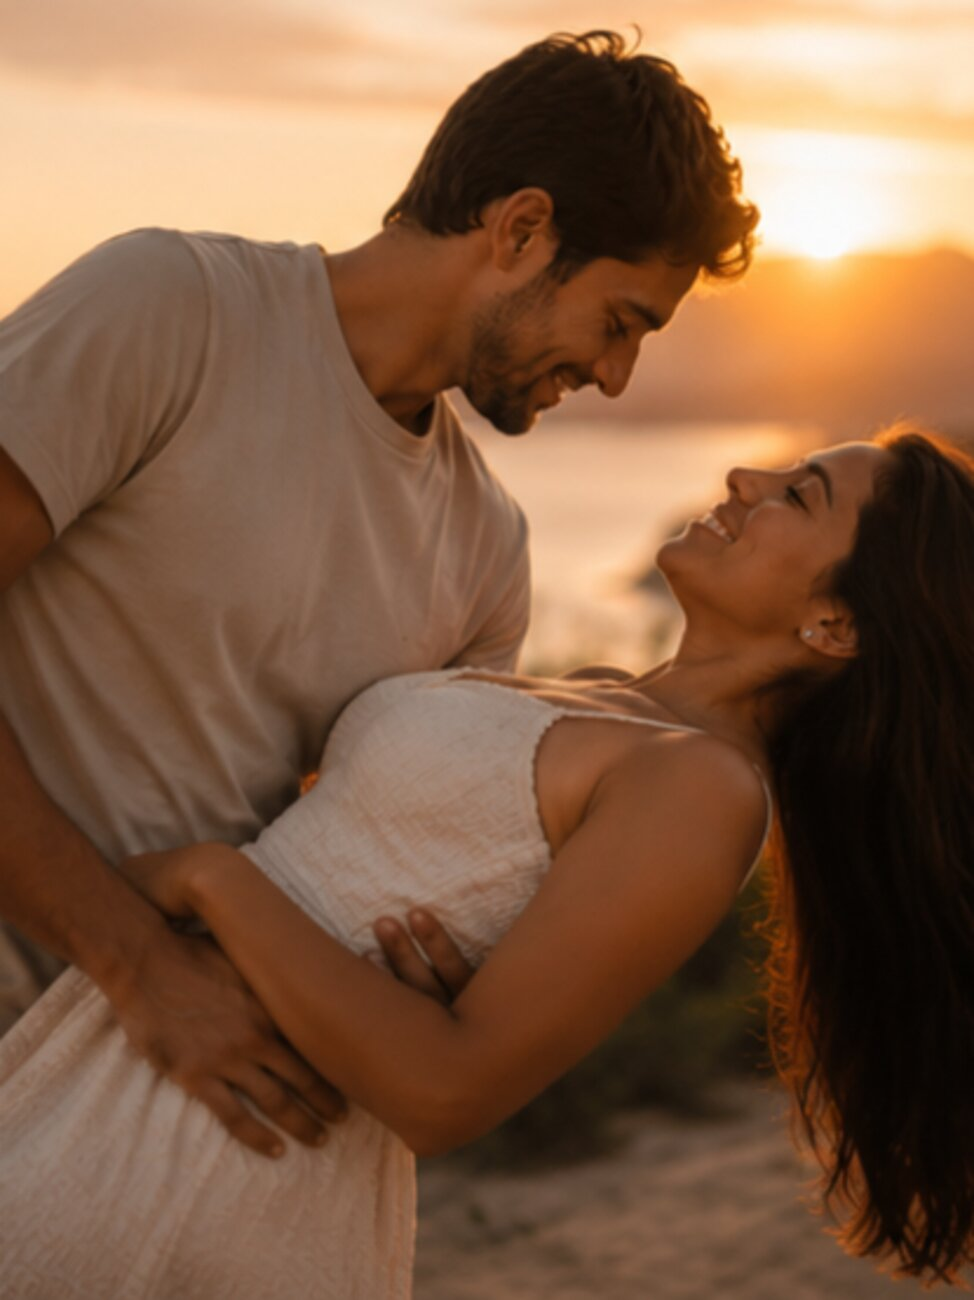
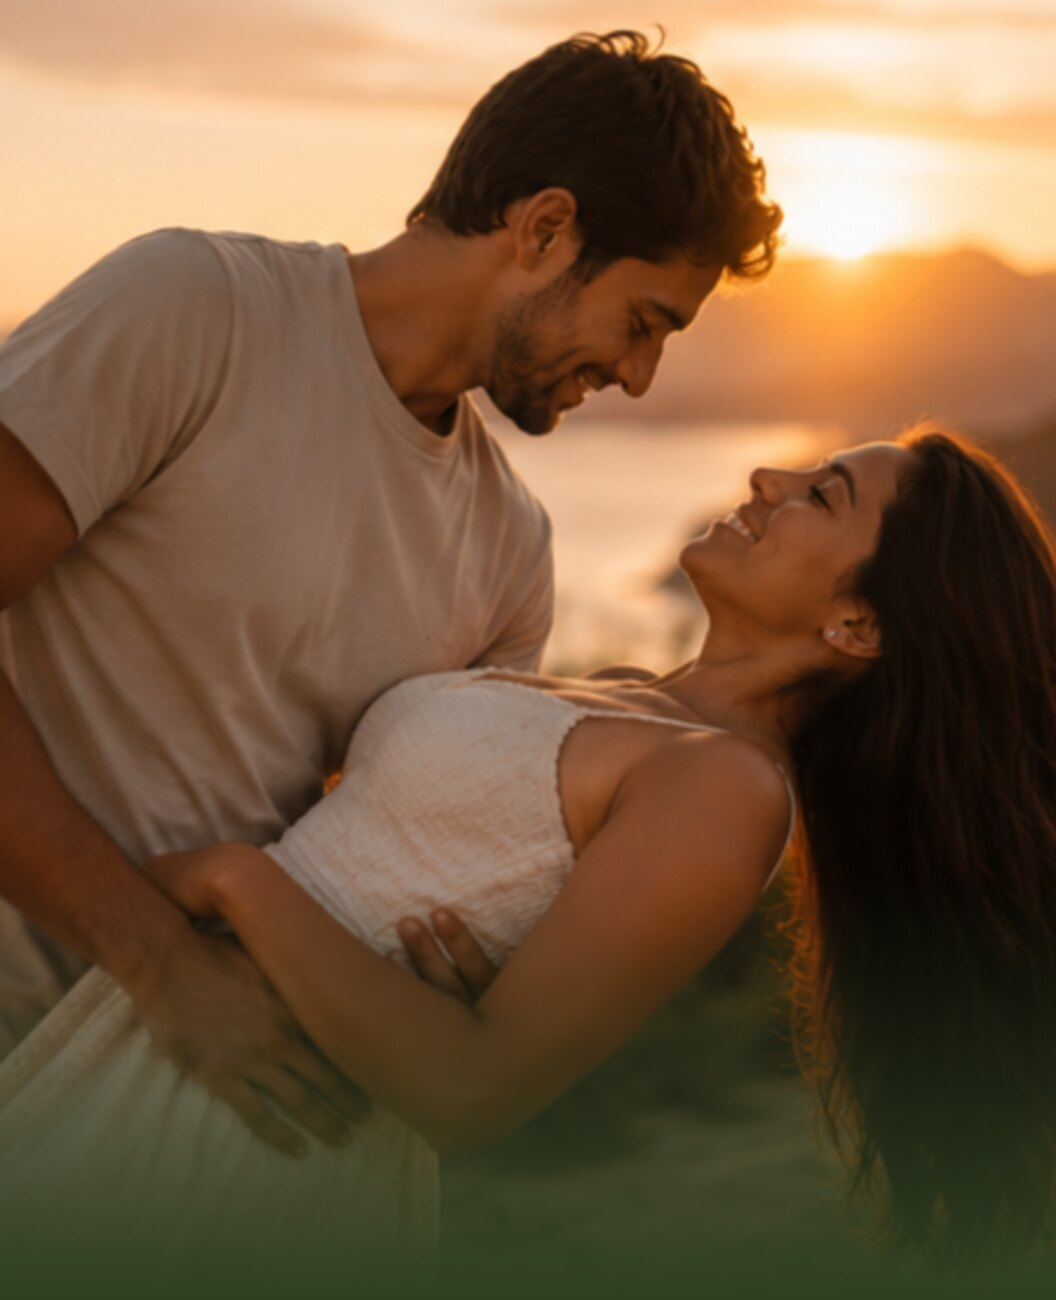
Add files via upload

diff --git a/mateuskeyse1/index.html b/mateuskeyse1/index.html
@@ -34,19 +34,19 @@ img{display:block;max-width:100%}
   padding:24px;overflow:hidden;
 }
 #abertura::before{
-  content:"";position:absolute;inset:-30px;
+  content:"";position:absolute;inset:-20px;
   background-image:url('assets/capa2.jpg');
   background-size:cover;background-position:center 30%;
-  filter:blur(16px) saturate(1.05);
-  transform:scale(1.08);
+  filter:blur(9px) saturate(1.05);
+  transform:scale(1.06);
 }
 #abertura::after{
   content:"";position:absolute;inset:0;
-  background:linear-gradient(160deg, rgba(72,96,52,.82), rgba(46,64,34,.88));
+  background:linear-gradient(160deg, rgba(72,96,52,.35), rgba(46,64,34,.55));
 }
 #abertura .abertura-box{position:relative;z-index:2}
 #abertura.fechada{opacity:0;visibility:hidden}
-.abertura-box{max-width:520px;color:var(--creme)}
+.abertura-box{max-width:520px;color:var(--creme);text-shadow:0 2px 14px rgba(20,30,14,.55)}
 .abertura-mono{
   width:110px;height:110px;margin:0 auto 26px;border-radius:50%;
   border:1px solid rgba(230,226,196,.5);
@@ -253,9 +253,10 @@ footer .flor{display:block;margin-top:22px;color:var(--verde-claro);font-size:1r
 
 /* ===== MOBILE ===== */
 @media(max-width:820px){
-  .hero-slide{inset:0}
-  .hero-slide.s1{background-image:url('assets/capa1-m.jpg');background-position:center 20%}
-  .hero-slide.s2{background-image:url('assets/capa2-m.jpg');background-position:center 25%}
+  .hero-slide{inset:0;background-size:100% auto;background-position:top center;background-repeat:no-repeat;background-color:var(--verde-noite)}
+  .hero-slide.s1{background-image:url('assets/capa1-m.jpg')}
+  .hero-slide.s2{background-image:url('assets/capa2-m.jpg')}
+  .hero-veu{background:linear-gradient(to bottom, rgba(46,64,34,.38) 0%, rgba(46,64,34,0) 28%)}
   #abertura::before{background-image:url('assets/capa2-m.jpg')}
   nav ul{position:fixed;inset:0;background:rgba(46,64,34,.97);flex-direction:column;align-items:center;justify-content:center;gap:34px;transform:translateX(100%);transition:transform .4s ease}
   nav ul.aberto{transform:translateX(0)}
